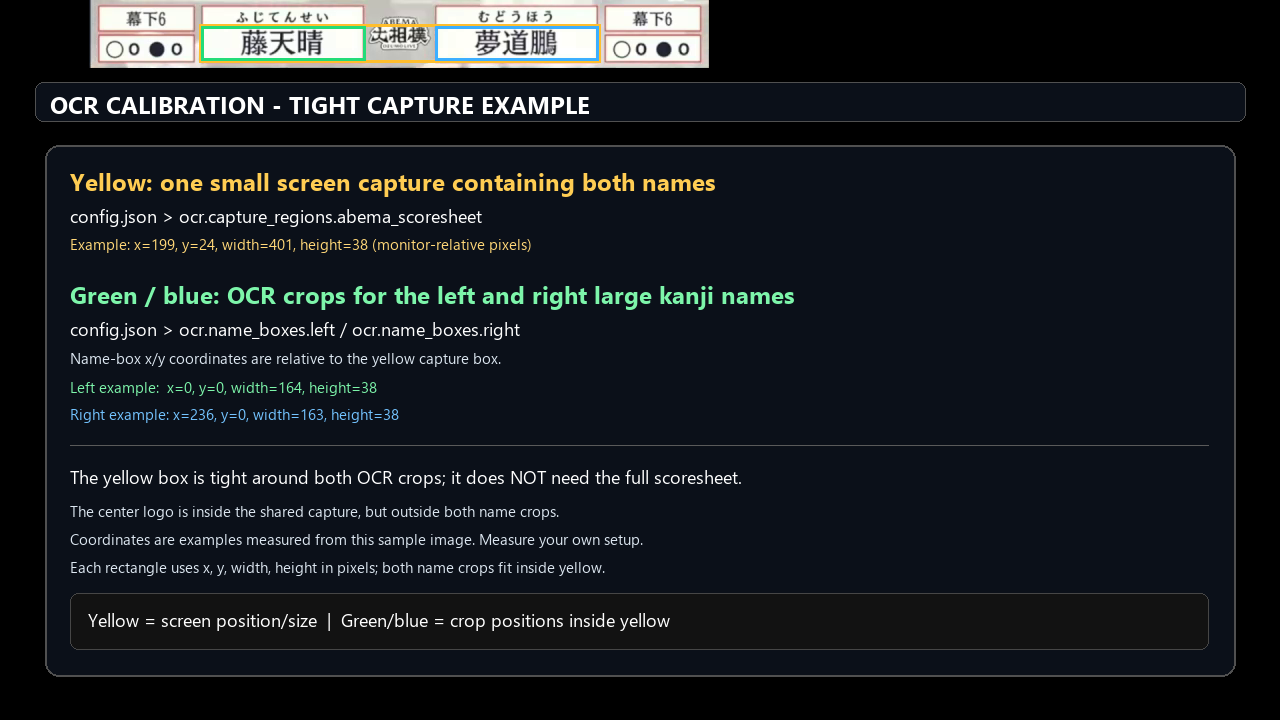
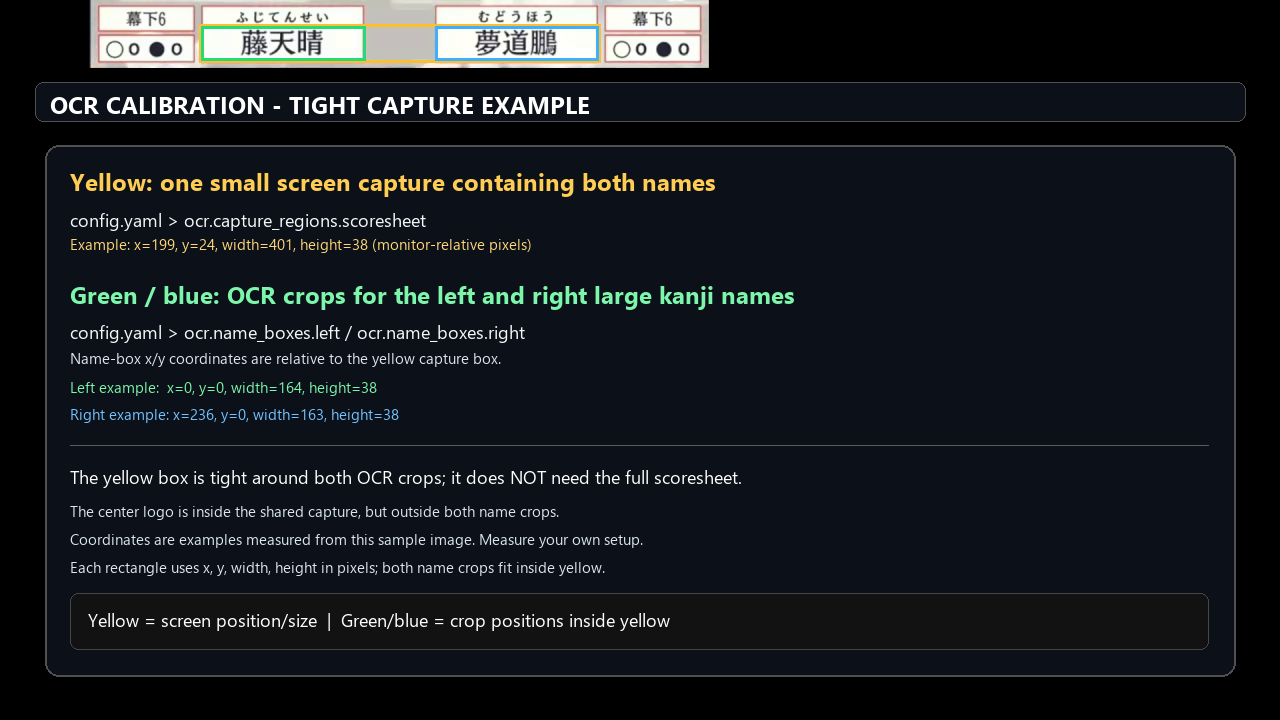
feat: lan address optionally
You can now optionally allow LAN access in the server configuration.
The ocr guide image for tight capture is now included in the release.
Minor changes to the build process and documentation.

Changed region(s): [[0.0625, 0.275, 0.375, 0.3361], [0.0625, 0.4278, 0.4062, 0.4889], [0.2812, 0.0306, 0.3438, 0.0611]]

diff --git a/templates/control.html b/templates/control.html
@@ -443,6 +443,9 @@
         currentMode === "automated"
           ? "OCR can select the bout when either wrestler's name is recognized clearly enough."
           : "Use Previous/Next to select bouts manually.";
+      if (currentMode === "manual") {
+        document.getElementById("ocr-last-action").textContent = "";
+      }
       const salariedDurationInput = document.getElementById("pre-match-salaried-seconds");
       const unsalariedDurationInput = document.getElementById("pre-match-unsalaried-seconds");
       if (!salariedDurationDirty && document.activeElement !== salariedDurationInput) {
@@ -533,7 +536,9 @@
             status.textContent = `OCR status: ${payload.state}.`;
           }
           document.getElementById("ocr-last-action").textContent =
-            `Last OCR action: ${payload.lastAction || "No stable OCR match has been checked yet."}`;
+            currentMode === "automated" && payload.mode === "automated"
+              ? `Last OCR action: ${payload.lastAction || "No stable OCR match has been checked yet."}`
+              : "";
         })
         .catch(error => document.getElementById("ocr-status").textContent = error.message);
     }
@@ -576,7 +581,7 @@
         .then(r => r.json())
         .then(data => {
           const ocr = data.settings && data.settings.ocr;
-          const cr = ocr && ocr.capture_regions && (ocr.capture_regions.scoresheet || ocr.capture_regions.abema_scoresheet);
+          const cr = ocr && ocr.capture_regions && ocr.capture_regions.scoresheet;
           const capture = cr || captureBox;
           const left = {
             x: Number(document.getElementById("nudge-left-x").value),
@@ -769,6 +774,9 @@
           const payload = await response.json();
           if (!response.ok) throw new Error(payload.error || "Unable to change control mode");
           currentMode = payload.settings.mode;
+          if (currentMode === "manual") {
+            document.getElementById("ocr-last-action").textContent = "";
+          }
           return fetch("/api/settings");
         })
         .then(response => {

diff --git a/templates/calibrate.html b/templates/calibrate.html
@@ -496,7 +496,7 @@
         .then(data => {
           const ocr = data.settings && data.settings.ocr;
           if (!ocr) return;
-          const cr = ocr.capture_regions && (ocr.capture_regions.scoresheet || ocr.capture_regions.abema_scoresheet);
+          const cr = ocr.capture_regions && ocr.capture_regions.scoresheet;
           if (cr) { boxes.capture = cr; writeBoxToInputs("capture", cr); }
           const lb = ocr.name_boxes && ocr.name_boxes.left;
           if (lb) { boxes.left = lb; writeBoxToInputs("left", lb); }

diff --git a/tests/test_app.py b/tests/test_app.py
@@ -1,6 +1,7 @@
 import time
 from dataclasses import dataclass
 from pathlib import Path
+from types import SimpleNamespace
 
 import pytest
 import yaml
@@ -578,6 +579,56 @@ def test_division_setting_accepts_only_numeric_division_codes():
     settings["division"] = 7
     with pytest.raises(SettingsError, match="division must"):
         validate_settings(settings)
+
+
+def test_lan_access_is_disabled_by_default_and_requires_a_boolean():
+    settings = default_settings()
+    assert settings["server"]["allow_lan_access"] is False
+
+    settings["server"]["allow_lan_access"] = True
+    assert validate_settings(settings)["server"]["allow_lan_access"] is True
+
+    settings["server"]["allow_lan_access"] = "true"
+    with pytest.raises(SettingsError, match="server.allow_lan_access"):
+        validate_settings(settings)
+
+
+@pytest.mark.parametrize(
+    ("allow_lan_access", "expected_host"),
+    [(False, "127.0.0.1"), (True, "0.0.0.0")],
+)
+def test_main_uses_lan_bind_host_only_when_enabled(
+    monkeypatch, allow_lan_access, expected_host
+):
+    run_arguments = {}
+
+    class FakeWatcher:
+        def snapshot(self):
+            return {
+                "server": {
+                    "host": "127.0.0.1",
+                    "allow_lan_access": allow_lan_access,
+                    "port": 5000,
+                }
+            }
+
+    class FakeSocketIO:
+        def run(self, app, **kwargs):
+            run_arguments.update(kwargs)
+
+    fake_app = SimpleNamespace(
+        extensions={
+            "settings_watcher": FakeWatcher(),
+            "socketio": FakeSocketIO(),
+        }
+    )
+    monkeypatch.setattr(app_module, "create_app", lambda **kwargs: fake_app)
+    monkeypatch.setattr(app_module.sys, "argv", ["app.py"])
+
+    app_module.main()
+
+    assert run_arguments["host"] == expected_host
+    assert run_arguments["port"] == 5000
 
 
 def test_ocr_settings_validate_monitor_and_name_box_bounds():
@@ -1404,11 +1455,10 @@ def test_ocr_test_endpoint_uses_buffered_screenshot_and_returns_images():
     assert data["rightImage"] != ""
 
 
-def test_legacy_abema_scoresheet_key_is_accepted_and_normalized():
+def test_unknown_ocr_capture_region_is_rejected():
     settings = default_settings()
     settings["ocr"]["capture_regions"] = {
-        "abema_scoresheet": {"x": 50, "y": 60, "width": 1920, "height": 1080}
+        "unused_region": {"x": 50, "y": 60, "width": 1920, "height": 1080}
     }
-    validated = validate_settings(settings)
-    assert "scoresheet" in validated["ocr"]["capture_regions"]
-    assert validated["ocr"]["capture_regions"]["scoresheet"]["x"] == 50
+    with pytest.raises(SettingsError, match="Unknown OCR capture region"):
+        validate_settings(settings)

diff --git a/config.py b/config.py
@@ -43,6 +43,7 @@ DEFAULT_SETTINGS: dict[str, Any] = {
         "host": "127.0.0.1",
         "port": 5000,
         "watch_interval_seconds": 1,
+        "allow_lan_access": False,
     },
     "control": {
         "mode": "manual",
@@ -211,6 +212,8 @@ def validate_settings(raw: Any) -> dict[str, Any]:
     server = {**default_settings()["server"], **server}
     if not isinstance(server["host"], str) or not server["host"]:
         raise SettingsError("server.host must be a non-empty string")
+    if not isinstance(server["allow_lan_access"], bool):
+        raise SettingsError("server.allow_lan_access must be true or false")
     port = server["port"]
     if isinstance(port, bool) or not isinstance(port, int) or not 1 <= port <= 65535:
         raise SettingsError("server.port must be an integer from 1 through 65535")
@@ -249,11 +252,15 @@ def validate_settings(raw: Any) -> dict[str, Any]:
     capture_regions = ocr.get("capture_regions")
     if not isinstance(capture_regions, dict):
         raise SettingsError("ocr.capture_regions must be a YAML mapping")
-    raw_scoresheet = capture_regions.get("scoresheet")
-    if raw_scoresheet is None:
-        raw_scoresheet = capture_regions.get("abema_scoresheet")
-    if raw_scoresheet is None:
-        raise SettingsError("ocr.capture_regions.scoresheet is required")
+    unknown_capture_region_keys = set(capture_regions) - {"scoresheet"}
+    if unknown_capture_region_keys:
+        raise SettingsError(
+            "Unknown OCR capture region: "
+            f"{sorted(unknown_capture_region_keys)[0]}"
+        )
+    raw_scoresheet = capture_regions.get("scoresheet")
+    if raw_scoresheet is None:
+        raise SettingsError("ocr.capture_regions.scoresheet is required")
     capture_region = _validate_bounds(
         raw_scoresheet, "ocr.capture_regions.scoresheet"
     )

diff --git a/ocr_scanner.py b/ocr_scanner.py
@@ -313,9 +313,7 @@ class OCRScanner:
             _has_pil = False
 
         ocr_settings = settings["ocr"]
-        capture_region = ocr_settings["capture_regions"].get(
-            "scoresheet"
-        ) or ocr_settings["capture_regions"].get("abema_scoresheet")
+        capture_region = ocr_settings["capture_regions"]["scoresheet"]
         with mss.mss() as capture:
             monitors = capture.monitors
             monitor_number = ocr_settings["monitor"]
@@ -387,9 +385,7 @@ class OCRScanner:
             ) from error
 
         ocr_settings = settings["ocr"]
-        capture_region = ocr_settings["capture_regions"].get(
-            "scoresheet"
-        ) or ocr_settings["capture_regions"].get("abema_scoresheet")
+        capture_region = ocr_settings["capture_regions"]["scoresheet"]
         with mss.mss() as capture:
             monitors = capture.monitors
             monitor_number = ocr_settings["monitor"]

diff --git a/app.py b/app.py
@@ -503,7 +503,6 @@ def create_app(
             updated_settings = copy.deepcopy(active_settings)
         if capture is not None:
             updated_settings["ocr"]["capture_regions"]["scoresheet"] = capture
-        updated_settings["ocr"]["capture_regions"].pop("abema_scoresheet", None)
         updated_settings["ocr"]["name_boxes"]["left"] = left
         updated_settings["ocr"]["name_boxes"]["right"] = right
 
@@ -754,7 +753,11 @@ def main(enable_ocr: bool = True) -> None:
     socketio: SocketIO = app.extensions["socketio"]
     socketio.run(
         app,
-        host=settings["server"]["host"],
+        host=(
+            "0.0.0.0"
+            if settings["server"]["allow_lan_access"]
+            else settings["server"]["host"]
+        ),
         port=settings["server"]["port"],
         allow_unsafe_werkzeug=True,
     )

diff --git a/README.md b/README.md
@@ -99,6 +99,17 @@ Below are diagnostic endpoints for troubleshooting and inspecting the app's stat
 - OCR status: <http://127.0.0.1:5000/api/ocr/status>
 - Effective settings/reload status: <http://127.0.0.1:5000/api/settings>
 
+By default, the server is available only on the computer running SumoOverlay.
+To use OCR on the computer displaying the sumo stream while OBS runs on another
+computer, set `server.allow_lan_access` to `true` in `config.yaml` and restart
+SumoOverlay. The server will listen on the network interfaces; use the
+SumoOverlay computer's LAN IP address in the other computer's OBS Browser
+Source, for example `http://192.168.1.25:5000/scoreboard`. Use the same address
+for `/prematch` or `/control` as needed. Allow the configured port through the
+host computer's firewall if prompted. This exposes the app, including its
+control page and API, to devices on the LAN, so enable it only on a trusted
+network and do not forward the port to the internet.
+
 ## Building standalone Windows releases
 
 To package distributable OCR and manual-only versions that run without a Python
@@ -106,8 +117,8 @@ installation, follow [packaging/README.md](packaging/README.md).
 
 ## Use a packaged Windows release
 
-If you received a `SumoOverlay-OCR.zip` or `SumoOverlay-NoOCR.zip`, extract the
-entire ZIP to a folder, then run `SumoOverlay-OCR.exe` or
+If you received a `SumoOverlay.zip` or `SumoOverlay-NoOCR.zip`, extract the
+entire ZIP to a folder, then run `SumoOverlay.exe` or
 `SumoOverlay-NoOCR.exe` from that folder. No Python installation is needed.
 Keep the console window open while using the app, and open
 <http://127.0.0.1:5000/control> in your browser. Press **Ctrl+C** in the
@@ -225,7 +236,8 @@ Open `config.yaml` in a text editor and change the values you need. Keep the ind
 | `day` | Tournament day, from `1` through `15`. |
 | `api.base_url` | sumo-api.com API root. |
 | `api.timeout_seconds` | Maximum wait for an API request. |
-| `server.host`, `server.port` | Local web-server address and port. Keep the host set to `127.0.0.1` unless you know why it needs to change. |
+| `server.host`, `server.port` | Web-server address and port. Keep `server.host` set to `127.0.0.1` unless you need a custom bind address; the default is local-only. |
+| `server.allow_lan_access` | `false` by default. Set to `true` to listen on all network interfaces so another computer on your LAN can access the overlays and control page. Restart the app after changing this setting; see [Control page and addresses](#control-page-and-addresses) for security and connection details. |
 | `server.watch_interval_seconds` | How often, in seconds, the app checks `config.yaml` for edits. |
 | `control.mode` | `"manual"` or `"automated"`. Manual mode uses the Control page buttons. Automated mode lets OCR select a uniquely identified bout when either one or both names meet the confidence threshold for the configured number of consecutive reads. |
 | `control.pre_match_salaried_seconds` | How long, in seconds, the pre-match overlay appears for Makuuchi and Juryo bouts. `0` disables timed auto-show for these salaried divisions. |
@@ -280,7 +292,7 @@ Each overlay's configured width and height define its complete fixed-size image 
 
 `division: 0` loads all divisions by requesting each of the six supported divisions separately; the API does not provide a working all-divisions endpoint. Bouts are combined in broadcast order. Values 1 through 6 select one division; number 1 is the top division (Makuuchi) and number 6 is Jonokuchi. Use these numeric codes in `config.yaml`.
 
-When you save a valid YAML file, the app applies changes within the configured watch interval. A change to the basho, division, or day reloads its bout data and selects the first bout. Changes to the OCR monitor, capture rectangle, name boxes, interval, and confidence are used on the next scan. Invalid YAML/settings or unavailable API data leave the last working settings active; the Control page reports a reload error. Fix the file and save again. Changing `server.host` or `server.port` requires restarting the app because the listening socket cannot be rebound while running.
+When you save a valid YAML file, the app applies changes within the configured watch interval. A change to the basho, division, or day reloads its bout data and selects the first bout. Changes to the OCR monitor, capture rectangle, name boxes, interval, and confidence are used on the next scan. Invalid YAML/settings or unavailable API data leave the last working settings active; the Control page reports a reload error. Fix the file and save again. Changing `server.host`, `server.allow_lan_access`, or `server.port` requires restarting the app because the listening socket cannot be rebound while running.
 
 ## Per-window configuration overrides
 

diff --git a/packaging/README.md b/packaging/README.md
@@ -2,7 +2,7 @@
 
 This folder contains a repeatable Windows build for two standalone releases:
 
-- **SumoOverlay-OCR** includes OCR and starts in automated mode.
+- **SumoOverlay** includes OCR and starts in automated mode.
 - **SumoOverlay-NoOCR** excludes the OCR libraries and starts in manual mode.
 
 Both releases are PyInstaller one-folder applications. Recipients do not need
@@ -63,7 +63,7 @@ By default this builds both releases. You can build just one:
 The script uses `.venv-build\Scripts\python.exe`, checks required dependencies,
 builds clean one-folder applications, and creates ZIP archives:
 
-- `dist\SumoOverlay-OCR\` and `dist\SumoOverlay-OCR.zip`
+- `dist\SumoOverlay\` and `dist\SumoOverlay.zip`
 - `dist\SumoOverlay-NoOCR\` and `dist\SumoOverlay-NoOCR.zip`
 
 To use another Python 3.11 build environment, pass its Python executable:
@@ -78,7 +78,7 @@ customizations outside those generated folders before rebuilding.
 ## Try and distribute
 
 Test each release from its extracted folder, not from the project checkout.
-Run `SumoOverlay-OCR.exe` or `SumoOverlay-NoOCR.exe` and keep its console window
+Run `SumoOverlay.exe` or `SumoOverlay-NoOCR.exe` and keep its console window
 open while the overlays are in use. The server address and port come from the
 included `config.yaml`. Open `http://127.0.0.1:5000/control` in a browser. Use
 **Ctrl+C** in the console window to stop the server.
